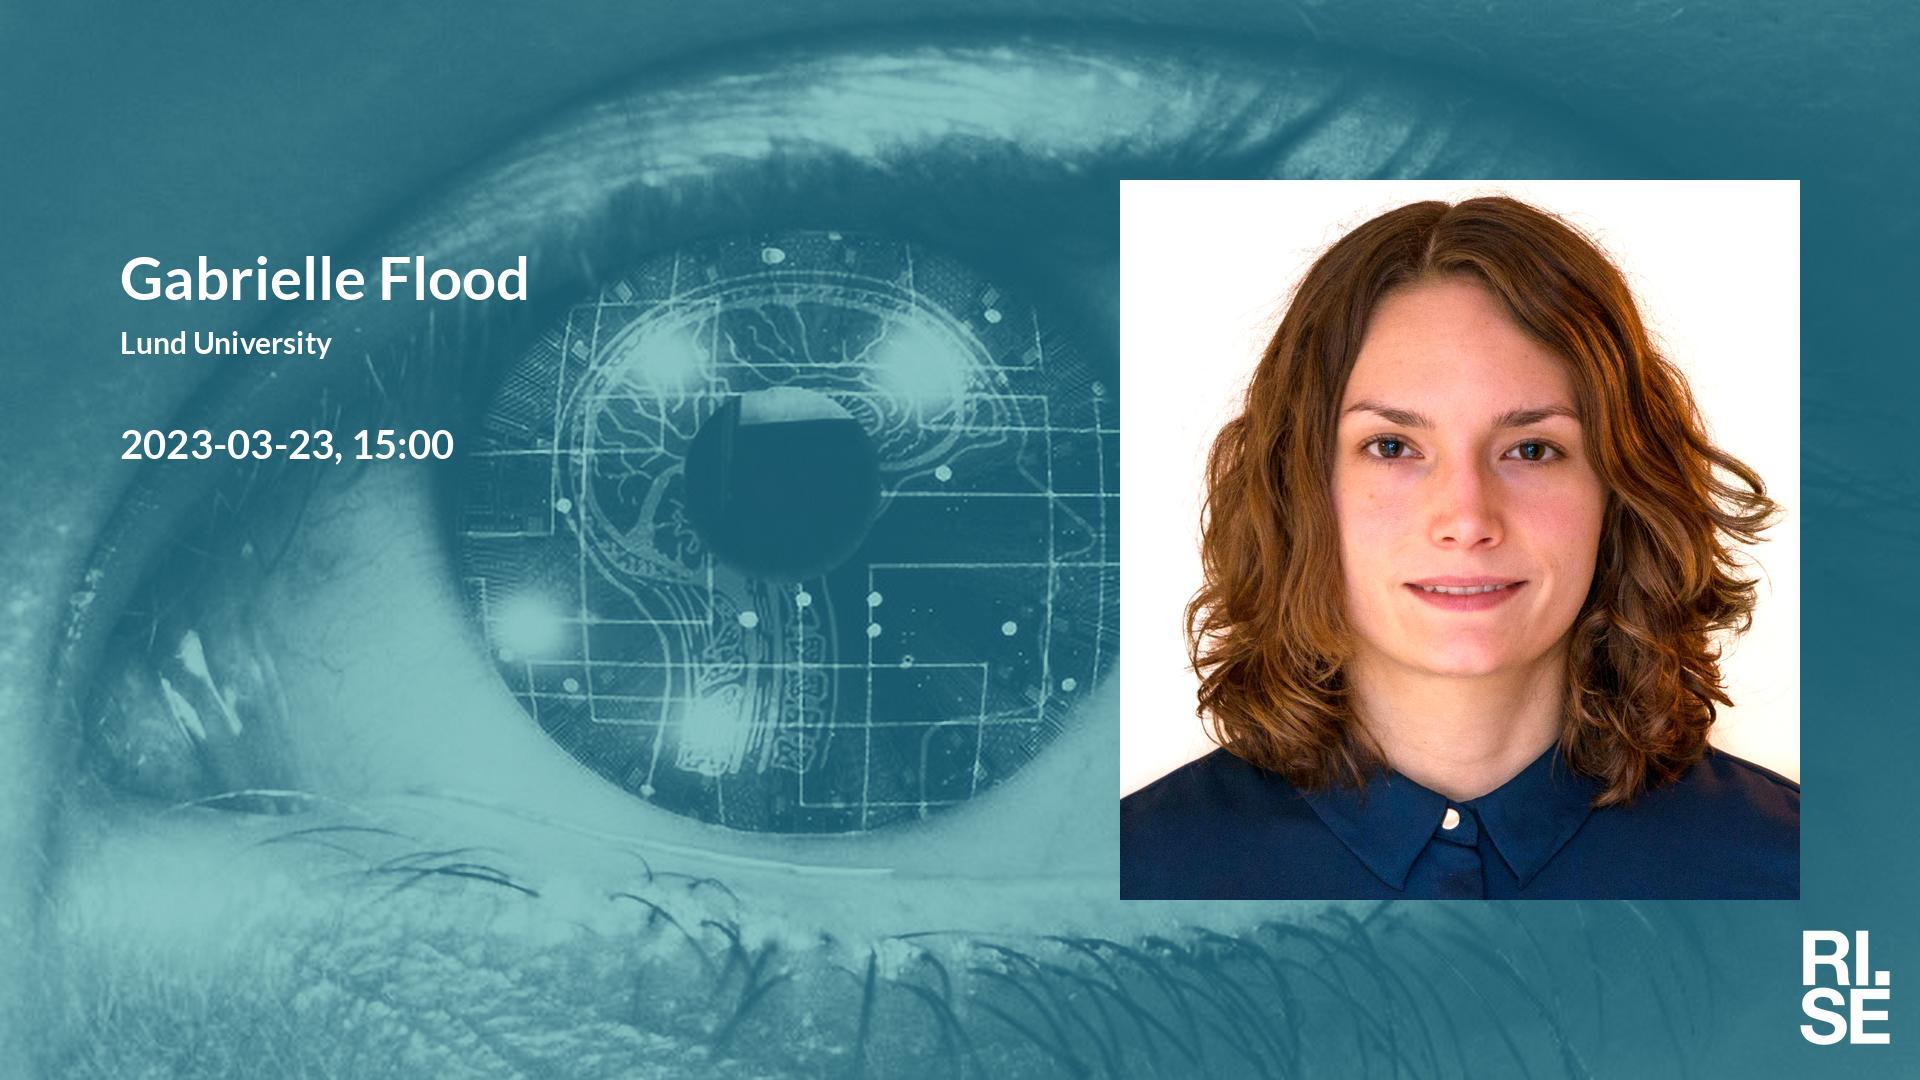
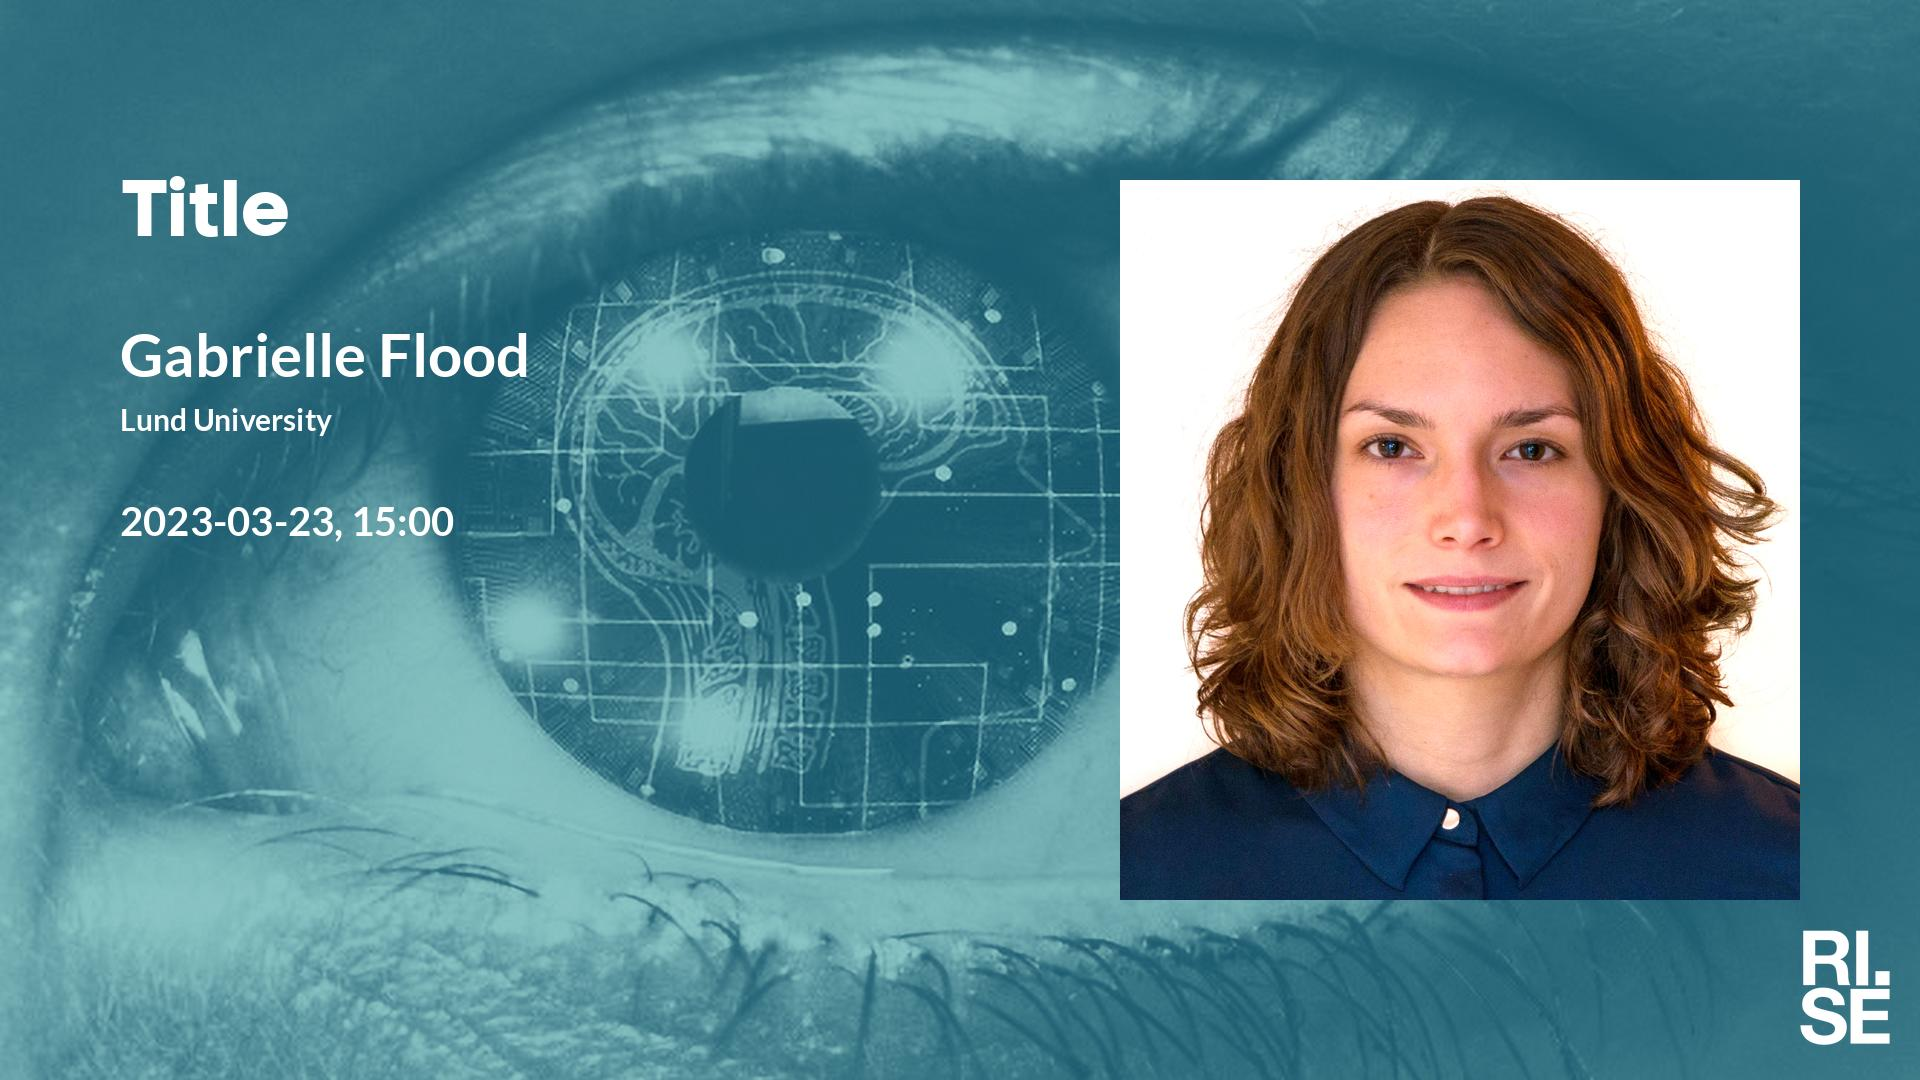
Updated plan on web site.

Changed region(s): [[0.0625, 0.3056, 0.2812, 0.4278], [0.0625, 0.1528, 0.2812, 0.275], [0.0625, 0.4583, 0.25, 0.5194]]

diff --git a/lm/index.md b/lm/index.md
@@ -17,7 +17,7 @@ table {border-collapse: collapse;}
 | <span style="color:red"> 2023-03-02 </span> | <span style="color:red"> Sportlov-STHLM </span> | <span style="color:red">  </span> | <span style="color:red">  </span> | <span style="color:red">  </span> | <span style="color:red">  </span> | <span style="color:red"> CANCELLED </span> |
 |  2023-03-09  |  [Shay Cohen, University of Edinburgh](2023-03-09.md)  |  [photo](photo-shay-cohen.jpg)  |  [social media ](social-media-shay-cohen.jpg)  |  [meeting backdrop ](meeting-backdrop-shay-cohen.jpg)  |  [youtube thumbnail ](youtube-thumbnail-shay-cohen.jpg)  |  S~~TAB~~P  |
 |  2023-03-16  |  [Stefanos Georganos, Karlstad University/KTH](2023-03-16.md)  |  [photo](photo-stefanos-georganos.jpg)  |  [social media ](social-media-stefanos-georganos.jpg)  |  [meeting backdrop ](meeting-backdrop-stefanos-georganos.jpg)  |  [youtube thumbnail ](youtube-thumbnail-stefanos-georganos.jpg)  |  STABP  |
-|  2023-03-23  |  [Gabrielle Flood, Lund University](2023-03-23.md)  |  [photo](photo-gabrielle-flood.jpg)  |  [social media ](social-media-gabrielle-flood.jpg)  |  [meeting backdrop ](meeting-backdrop-gabrielle-flood.jpg)  |  [youtube thumbnail ](youtube-thumbnail-gabrielle-flood.jpg)  |  S~~TAB~~P  |
+|  2023-03-23  |  [Gabrielle Flood, Lund University](2023-03-23.md)  |  [photo](photo-gabrielle-flood.jpg)  |  [social media ](social-media-gabrielle-flood.jpg)  |  [meeting backdrop ](meeting-backdrop-gabrielle-flood.jpg)  |  [youtube thumbnail ](youtube-thumbnail-gabrielle-flood.jpg)  |  ST~~AB~~P  |
 |  2023-03-30  |  [Puzhao Zhang, KTH](2023-03-30.md)  |  [photo](photo-puzhao-zhang.jpg)  |  [social media ](social-media-puzhao-zhang.jpg)  |  [meeting backdrop ](meeting-backdrop-puzhao-zhang.jpg)  |  [youtube thumbnail ](youtube-thumbnail-puzhao-zhang.jpg)  |  S~~TAB~~P  |
 | <span style="color:red"> 2023-04-06 </span> | <span style="color:red"> Påsklov/Skärtorsdag </span> | <span style="color:red">  </span> | <span style="color:red">  </span> | <span style="color:red">  </span> | <span style="color:red">  </span> | <span style="color:red"> CANCELLED </span> |
 |  2023-04-13  |  [Elijah Cole, Caltech](2023-04-13.md)  |  [photo](photo-elijah-cole.jpg)  |  [social media ](social-media-elijah-cole.jpg)  |  [meeting backdrop ](meeting-backdrop-elijah-cole.jpg)  |  [youtube thumbnail ](youtube-thumbnail-elijah-cole.jpg)  |  S~~TAB~~P  |

diff --git a/lm/2023-03-23.md b/lm/2023-03-23.md
@@ -1,6 +1,6 @@
 Welcome to this week's Learning Machines seminar.
 
-**Title:** 
+**Title:** Title
 
 **Speaker:** Gabrielle Flood, Lund University
 
